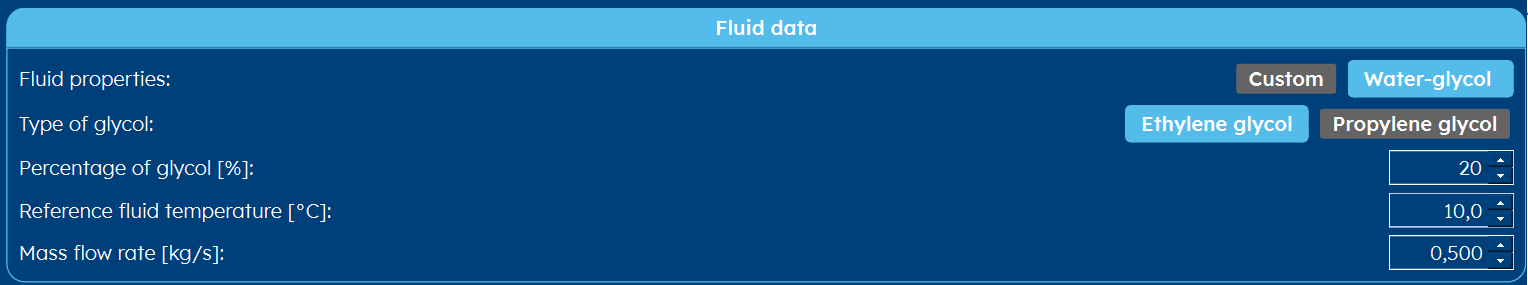
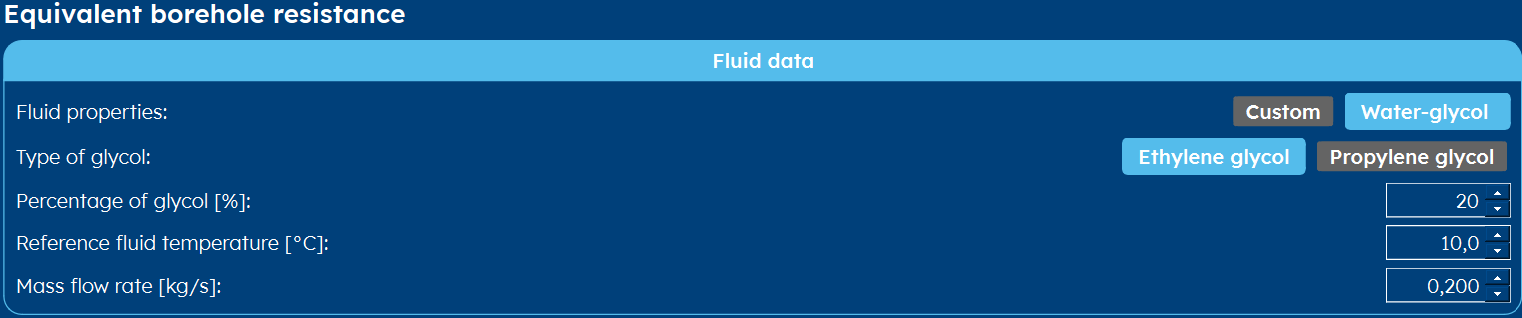
Thermal resistance

diff --git a/docs/sources/tabs/thermal_resistance.rst b/docs/sources/tabs/thermal_resistance.rst
@@ -46,29 +46,78 @@ The fluid parameters can be set either by using a certain % of glycol to form a 
 * **Type of glycol** Select the type of glycol you want to use.
 * **Percentage of glycol [%]** The percentage of glycol in the glycol-water mixture.
 * **Reference fluid temperature [°C]** The reference temperature for the fluid properties.
-
-.. |text| include:: ../General/reference_temperature.rst
-.. |text2| literalinclude:: ../General/reference_temperature.rst
-
+* **Mass flow rate [kg/s]** Mass flow rate per borehole.
 
 .. note::
-    |text|
+    Within GHEtool, the fluid temperatures are *the average fluid temperatures*, meaning the average between the intlet
+    and outlet fluid temperature. The minimum average fluid temperature is therefore not the lowest temperature you inject into
+    your borefield during the heating peak, but the average between the inlet and outlet temperatures of your borefield.
 
-.. note::
-    |text2|
+    This is the case since in the background, the only temperature that matters for the heat transfer is the average fluid temperature,
+    and since the inlet and outlet temperatures are depending on the mass flow rate, it is easier to work with an average temperature.
+
+    If you typically work with, e.g. a minimum inlet temperature of 0, with a :math:`\Delta T` across your borefield of 4°C,
+    you enter 2°C as a minimum average fluid temperature.
+
+If you have a very specific fluid, you can enter its properties directly into GHEtool if you select *Custom* in the *Fluid properties* input.
 
 .. image:: Figures/borehole_resistance_fluid_custom.png
   :alt: Input for the custom fluid parameters
 
+* **Thermal conductivity [W/mK]** Thermal conductivity of the fluid.
+* **Density [kg/m³]** Density of the fluid.
+* **Thermal capacity [J/kgK]** Thermal heat capacity of the fluid.
+* **Dynamic viscosity [Pa s]** Dynamic viscosity of the fluid.
+* **Mass flow rate [kg/s]** Mass flow rate per borehole.
 
+.. warning::
+    Please make sure you enter the **dynamic** viscosity and not the **kinematic** viscosity.
+    You can convert one into another by using: :math:`\mu = \nu \cdot \rho`, where:
+
+    * :math:`\mu` is the dynamic viscosity [Pa s] (= [Ns/m²])
+    * :math:`\nu` is the kinematic viscosity [m²/s]
+    * :math:`\rho` is the density [kg/m³]
+
+.. note::
+    The **Mass flow rate** within GHEtool is the mass flow rate per borehole. This means that if you have for example 0.2kg/s of
+    flow rate and a double U-tube, this gives 0.1kg/s of flow through each tube. If you have a single U-tube, this 0.2kg/s will pass
+    through this single U-tube.
+
+.. hint::
+    If you want to take into account a higher flow rate when working with a series connection of borehole, you enter the resulting
+    fluid mass flow rate into GHEtool. For example, you have a total mass flow rate of 0.4kg/s for 4 boreholes, with 2x2 in series,
+    you enter 0.2kg/s as a mass flow rate into GHEtool.
 
 .. _borehole internals:
 
 Borehole internals
 ------------------
+For borehole internals, there are two major options: using U-tubes or using a coaxial pipe.
 
 .. image:: Figures/borehole_resistance_U.png
   :alt: Input for the U-pipes in the borehole
 
+* **Number of pipes [-]** The number of U-tubes in the borehole.
+* **Grout thermal conductivity [W/mK]** Thermal conductivity of the grout.
+* **Pipe thermal conductivity [W/mK]** Thermal conductivity of the pipe. (This mostly stays unchanged.)
+* **Inner pipe radius [m]** The inner radius of the pipe in meter.
+* **Outer pipe radius [m]** The outer radius of the pipe in meter.
+* **Borehole radius [m]** Radius of the borehole in meter. (This input is duplicated from the :ref:`tab borefield` tab.)
+* **Distance of pipe until center [m]** This is an estimation of the locations of the pipe inside the borehole.
+* **Pipe roughness [m]** The roughness of the pipe. Most of the times, since we are working with PE, this is very small.
+
+.. include:: ../General/pipe_roughness.rst
+
 .. image:: Figures/borehole_resistance_coaxial.png
   :alt: Input for the coaxial pipe parameters
+
+* **Grout thermal conductivity [W/mK]** Thermal conductivity of the grout.
+* **Pipe thermal conductivity [W/mK]** Thermal conductivity of the pipe. (This mostly stays unchanged.)
+* **Inner pipe inner radius [m]** The inner radius of the inner pipe in meter.
+* **Inner pipe outer radius [m]** The inner radius of the outer pipe in meter.
+* **Outer pipe inner radius [m]** The outer radius of the inner pipe in meter.
+* **Outer pipe outer radius [m]** The outer radius of the outer pipe in meter.
+* **Borehole radius [m]** Radius of the borehole in meter. (This input is duplicated from the :ref:`tab borefield` tab.)
+* **Pipe roughness [m]** The roughness of the pipe. Most of the times, since we are working with PE, this is very small.
+
+.. include:: ../General/pipe_roughness.rst

diff --git a/docs/sources/FAQ's/reynolds_number.rst b/docs/sources/FAQ's/reynolds_number.rst
@@ -35,7 +35,15 @@ Everything in between is interpolated. This approach follows (Gnielinski, 2013) 
 Influence of the reference temperature
 ======================================
 
-.. include:: ../General/reference_temperature.rst
+Within GHEtool, the fluid temperatures are *the average fluid temperatures*, meaning the average between the intlet
+and outlet fluid temperature. The minimum average fluid temperature is therefore not the lowest temperature you inject into
+your borefield during the heating peak, but the average between the inlet and outlet temperatures of your borefield.
+
+This is the case since in the background, the only temperature that matters for the heat transfer is the average fluid temperature,
+and since the inlet and outlet temperatures are depending on the mass flow rate, it is easier to work with an average temperature.
+
+If you typically work with, e.g. a minimum inlet temperature of 0, with a :math:`\Delta T` across your borefield of 4°C,
+you enter 2°C as a minimum average fluid temperature.
 
 .. note::
     In a following version of GHEtool this reference temperature will be automatically chosen based on the calculated fluid temperatures.

diff --git a/docs/sources/General/pipe_roughness.rst b/docs/sources/General/pipe_roughness.rst
@@ -1,0 +1,6 @@
+.. note::
+    The **pipe roughness** plays a role in when a fluid goes from laminar to turbulent flow (see also our article on :ref:`reynolds number`).
+    Some manufacturers use rough pipe internals so they achieve a turbulent flow at lower mass flow rates. If this is the case,
+    please contact the manufacturer for the correct data to put into GHEtool.
+
+    You may also always contact us at `info@ghetool.eu <mailto:info@ghetool.eu>`_ if you want a specific brand to be implemented in the software.
